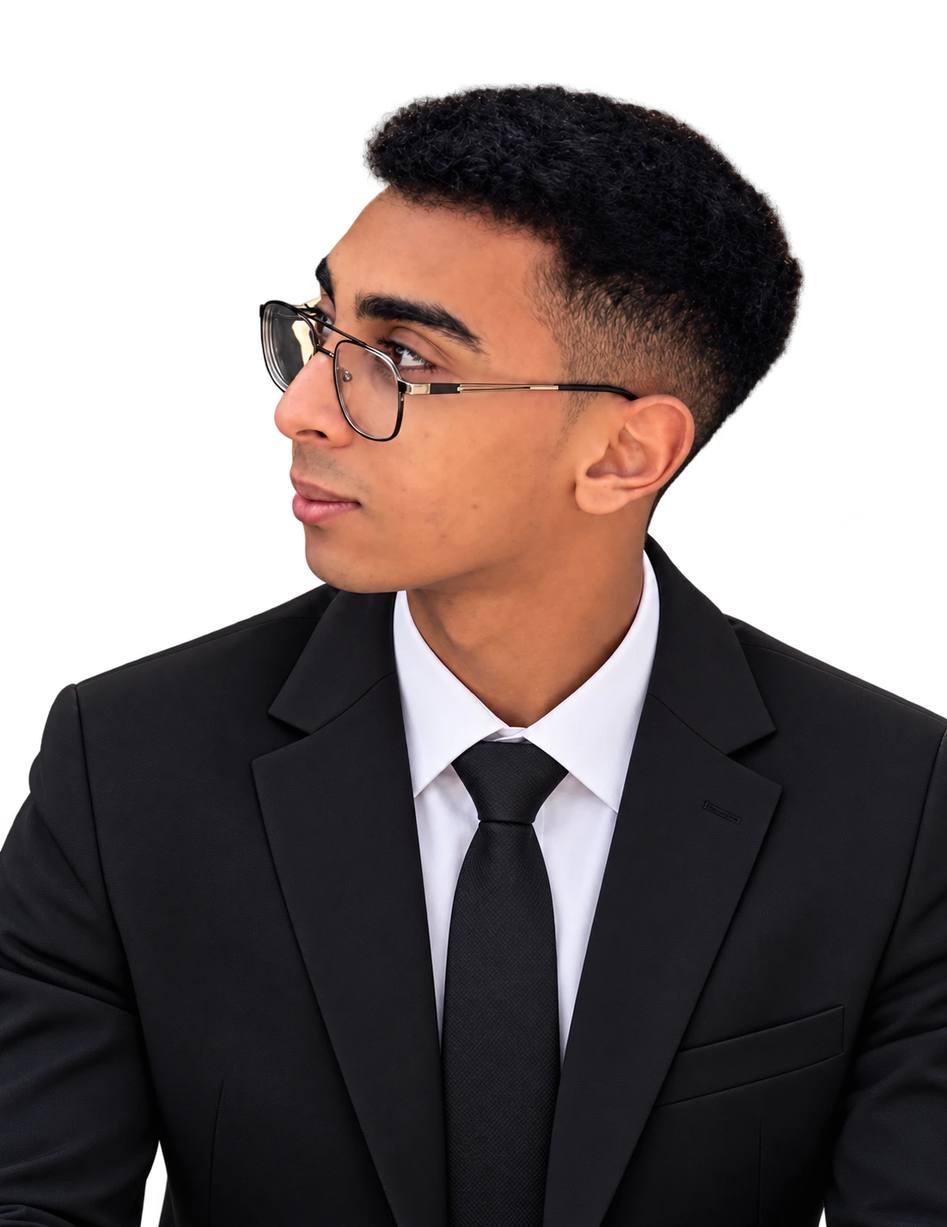
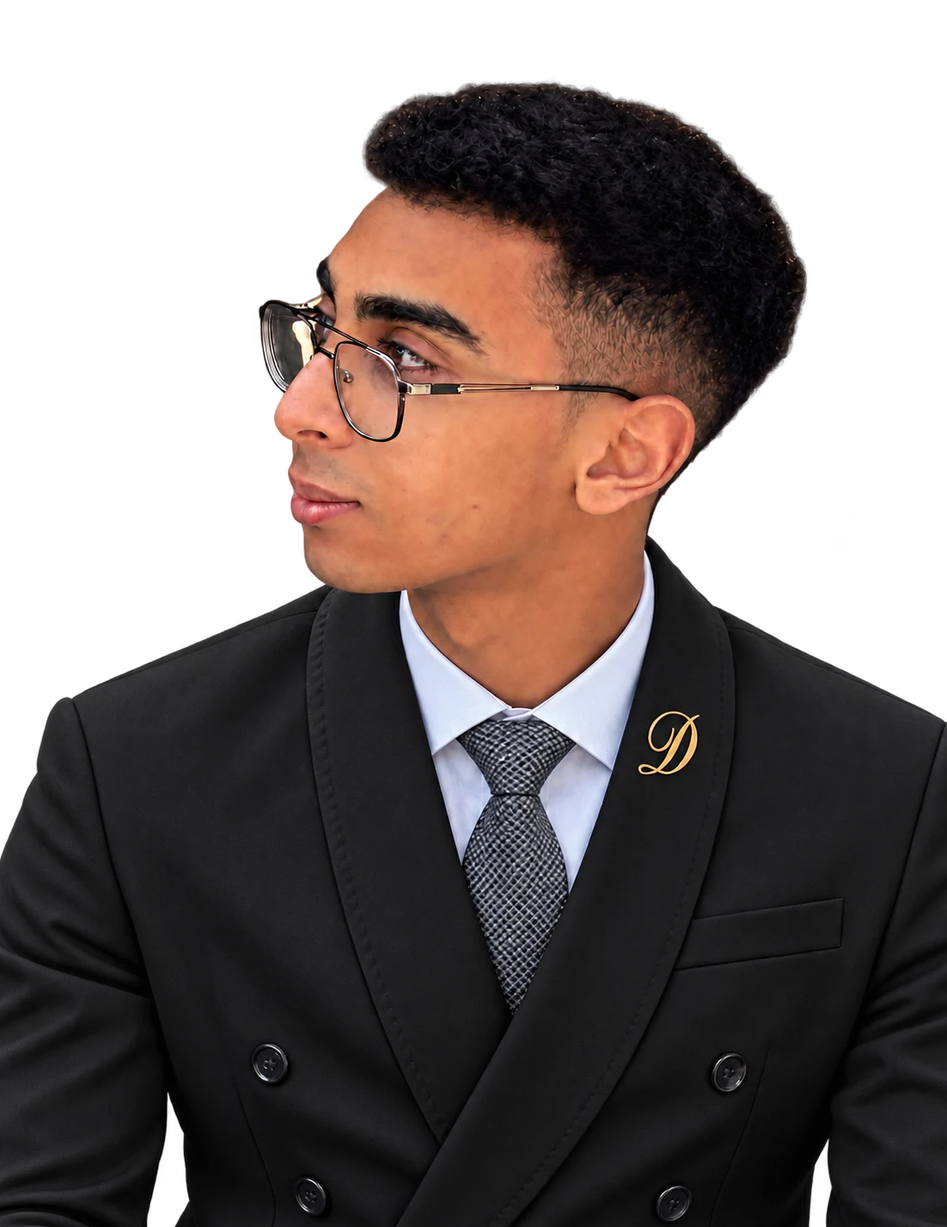
Replace portfolio portrait with supplied black suit photo

diff --git a/index.html b/index.html
@@ -369,7 +369,7 @@ html[lang="ar"] h2 br {display:none}
 
 .cert .certificate-status{font-size:12px;line-height:1.6;color:var(--gold);margin-top:10px}
 .certificate-actions{display:flex;flex-wrap:wrap;gap:10px;margin-top:15px}.certificate-link{font-size:11px;padding:10px 13px;gap:6px}.certificate-dialog{width:min(1200px,96vw);max-height:94dvh;padding:16px;background:#111110;color:var(--light);border:1px solid var(--gold);overflow:auto}.certificate-dialog::backdrop{background:#000d;backdrop-filter:blur(5px)}.certificate-toolbar{display:flex;align-items:center;justify-content:space-between;gap:16px;margin-bottom:14px}.certificate-toolbar h3{font-size:16px;margin:0}.certificate-close{background:#222;color:var(--light);border:1px solid var(--gold);padding:9px 13px;cursor:pointer;flex-shrink:0}.certificate-image{display:block;max-width:100%;height:auto;margin:auto;background:white}.certificate-error{color:var(--light)}body.certificate-open{overflow:hidden}@media(max-width:640px){.certificate-dialog{padding:10px}.certificate-toolbar h3{font-size:13px}.certificate-close{font-size:13px}}
-</style></head><body><nav aria-label="Navigation principale"><a href="#accueil" class="logo" aria-label="Accueil — Daraoui Mohammed">D<span>.</span>M</a><div class="nav-tools"><select class="language-select" id="site-language" aria-label="Choisir la langue"><option value="fr" lang="fr">Français</option><option value="en" lang="en">English</option></select><button class="menu" aria-expanded="false" aria-controls="navigation">Menu ☰</button></div><div class="nav-links" id="navigation"><a href="#accueil">Accueil</a><a href="#apropos">À propos</a><a href="#competences">Compétences & services</a><a href="#formations">Formations</a><a href="#experiences">Expériences</a><a href="#contact">Contact ↗</a></div></nav><header class="hero" id="accueil"><div class="portrait"><img src="assets/portrait.webp" alt="Portrait de Daraoui Mohammed en costume noir" fetchpriority="high" width="1098" height="1433"></div><div class="hero-copy"><div class="kicker rise">Marketing · Création · Pédagogie</div><h1 class="rise">DARAOUI<br> <span>MOHAMMED</span></h1><div class="disciplines rise">Marketing · Communication · Création de contenu · Animateur et encadrant pédagogique</div><p class="hero-quote rise">Des idées créatives, une communication engagée et une pédagogie qui inspire.</p><div class="actions rise"><a class="btn primary" href="#experiences">Découvrir mon parcours <span aria-hidden="true">↗</span></a><a class="btn" href="#contact">Me contacter <span aria-hidden="true">↗</span></a></div></div><div class="hero-foot"><span>Casablanca, Maroc</span><a href="#apropos">Défiler pour découvrir ↓</a></div></header><main><section class="section" id="apropos"><div class="section-head"><div class="label"><b>01</b> À propos</div><h2>Créativité.<br> Engagement. <em>Transmission.</em></h2></div><div class="about-content"><p>Je suis Daraoui Mohammed, diplômé en commerce et marketing de l’ISTA Polo de Casablanca, passionné par la communication, la création de contenu et l’animation pédagogique.</p><p>Responsable du département marketing de l’Association Jeunesse de la Citoyenneté Marocaine (AJCM) – branche Hay Adil, je contribue à valoriser les initiatives associatives et à créer des contenus adaptés à leurs publics.</p><p>Également animateur et encadrant pédagogique, je conçois et anime des activités qui favorisent la créativité, l’autonomie et l’esprit d’équipe chez les enfants et les jeunes.</p><div class="about-sign">Daraoui Mohammed</div></div></section><section class="section" id="competences"><div class="section-head"><div class="label"><b>02</b> Compétences & services</div><h2>Mes domaines<br> d’<em>expertise.</em></h2></div><div class="service-grid"><article class="service"><span>01</span><h3>Communication digitale</h3><p>Création de contenus et gestion de la présence sur les réseaux sociaux pour les marques et les associations.</p><div class="service-mark" aria-hidden="true">↗</div></article><article class="service"><span>02</span><h3>Design graphique</h3><p>Conception de visuels pour les réseaux sociaux, d’affiches et de supports de communication adaptés à l’identité de chaque projet.</p><div class="service-mark" aria-hidden="true">↗</div></article><article class="service"><span>03</span><h3>Photographie</h3><p>Réalisation de portraits et de photographies pour mettre en valeur les personnes, les événements et les projets.</p><div class="service-mark" aria-hidden="true">↗</div></article><article class="service"><span>04</span><h3>Animation & encadrement pédagogique</h3><p>Conception et animation d’activités éducatives, culturelles et ludiques adaptées aux enfants et aux jeunes.</p><div class="service-mark" aria-hidden="true">↗</div></article></div></section><section class="section" id="formations"><div class="section-head"><div class="label"><b>03</b> Formations</div><h2>Apprendre.<br> <em>Évoluer.</em></h2></div><div class="education"><div><h3>Diplôme en gestion des entreprises — Commerce & Marketing</h3><p>ISTA Polo, Casablanca</p></div><span class="year">Obtenu en 2027</span></div><div class="education"><div><h3>Baccalauréat</h3><p>Lycée Jaâfar El Fassi, Casablanca</p></div><span class="year">2024</span></div><details><summary><span class="group-num">01</span>Entrepreneuriat &amp; e-commerce<span class="plus">+</span></summary><div class="certs"><div class="cert"><h4>Formation en entrepreneuriat</h4><p>OFPPT</p><p class="certificate-status">Formation terminée · Attestation en attente</p></div><div class="cert"><h4>Formation en e-commerce</h4><p>OFPPT</p><p class="certificate-status">Formation terminée · Attestation en attente</p></div><div class="cert"><h4>Managing a Business Venture</h4><p>Cisco Networking Academy</p><div class="certificate-actions"><a class="btn certificate-link" href="assets/certificates/3254.webp"><span>Voir le certificat</span> ↗</a></div></div><div class="cert"><h4>Launching a Business Venture</h4><p>Cisco Networking Academy</p><div class="certificate-actions"><a class="btn certificate-link" href="assets/certificates/3255.webp"><span>Voir le certificat</span> ↗</a></div></div><div class="cert"><h4>Discovering Entrepreneurship</h4><p>Cisco Networking Academy</p><div class="certificate-actions"><a class="btn certificate-link" href="assets/certificates/3256.webp"><span>Voir le certificat</span> ↗</a></div></div><div class="cert"><h4>Engaging Stakeholders for Success</h4><p>Cisco Networking Academy</p><div class="certificate-actions"><a class="btn certificate-link" href="assets/certificates/3257.webp"><span>Voir le certificat</span> ↗</a></div></div></div></details><details><summary><span class="group-num">02</span>Marketing digital &amp; création<span class="plus">+</span></summary><div class="certs"><div class="cert"><h4>Google Ads — Publicité sur le Réseau Display</h4><p>Google</p><div class="certificate-actions"><a class="btn certificate-link" href="assets/certificates/3258.webp"><span>Voir le certificat</span> ↗</a></div></div><div class="cert"><h4>Google Analytics</h4><p>Google</p><div class="certificate-actions"><a class="btn certificate-link" href="assets/certificates/3259.webp"><span>Voir le certificat</span> ↗</a></div></div><div class="cert"><h4>Digital Agencies &amp; Freelancers — Double certification</h4><p>ALX &amp; MNTR</p><div class="certificate-actions"><a class="btn certificate-link" href="assets/certificates/3260.webp" data-provider="MNTR"><span>Voir le certificat</span> · MNTR ↗</a><a class="btn certificate-link" href="assets/certificates/3262.webp" data-provider="ALX"><span>Voir le certificat</span> · ALX ↗</a></div></div><div class="cert"><h4>Marketing digital — Cours complet</h4><p>Cursa</p><div class="certificate-actions"><a class="btn certificate-link" href="assets/certificates/3263.webp"><span>Voir le certificat</span> ↗</a></div></div><div class="cert"><h4>Création de contenu avec l’intelligence artificielle</h4><p>Initiative Urbaine · Cooperació Valenciana · Generalitat Valenciana · Syndicalistes sans Frontières</p><div class="certificate-actions"><a class="btn certificate-link" href="assets/certificates/3264.webp"><span>Voir le certificat</span> ↗</a></div></div></div></details><details><summary><span class="group-num">03</span>Technologie &amp; compétences numériques<span class="plus">+</span></summary><div class="certs"><div class="cert"><h4>Introduction to Modern AI</h4><p>Cisco Networking Academy</p><div class="certificate-actions"><a class="btn certificate-link" href="assets/certificates/3265.webp"><span>Voir le certificat</span> ↗</a></div></div><div class="cert"><h4>Introduction to Data Science</h4><p>Cisco Networking Academy</p><div class="certificate-actions"><a class="btn certificate-link" href="assets/certificates/3266.webp"><span>Voir le certificat</span> ↗</a></div></div><div class="cert"><h4>Computer Hardware Basics</h4><p>Cisco Networking Academy</p><div class="certificate-actions"><a class="btn certificate-link" href="assets/certificates/3267.webp"><span>Voir le certificat</span> ↗</a></div></div><div class="cert"><h4>Create Digital Content, Communicate, and Collaborate Online</h4><p>OpenEDG · Cisco Networking Academy</p><div class="certificate-actions"><a class="btn certificate-link" href="assets/certificates/3275.webp"><span>Voir le certificat</span> ↗</a></div></div><div class="cert"><h4>Digital Awareness</h4><p>OpenEDG · Cisco Networking Academy</p><div class="certificate-actions"><a class="btn certificate-link" href="assets/certificates/3276.webp"><span>Voir le certificat</span> ↗</a></div></div><div class="cert"><h4>Linux Unhatched</h4><p>Network Development Group · Cisco Networking Academy</p><div class="certificate-actions"><a class="btn certificate-link" href="assets/certificates/3277.webp"><span>Voir le certificat</span> ↗</a></div></div><div class="cert"><h4>Python Essentials 1</h4><p>Python Institute · Cisco Networking Academy</p><div class="certificate-actions"><a class="btn certificate-link" href="assets/certificates/3278.webp"><span>Voir le certificat</span> ↗</a></div></div><div class="cert"><h4>STEM for Sustainability</h4><p>Boeing · Amideast · INDH</p><div class="certificate-actions"><a class="btn certificate-link" href="assets/certificates/3279.webp"><span>Voir le certificat</span> ↗</a></div></div></div></details><details><summary><span class="group-num">04</span>Pédagogie, animation &amp; vie associative<span class="plus">+</span></summary><div class="certs"><div class="cert"><h4>Les indispensables de l’enseignement</h4><p>Canva Design School</p><div class="certificate-actions"><a class="btn certificate-link" href="assets/certificates/3280.webp"><span>Voir le certificat</span> ↗</a></div></div><div class="cert"><h4>Formation générale des cadres de colonies de vacances — 1er degré</h4><p>Ministère de la Jeunesse, de la Culture et de la Communication · AJCM</p><div class="certificate-actions"><a class="btn certificate-link" href="assets/certificates/3281.webp"><span>Voir le certificat</span> ↗</a></div></div><div class="cert"><h4>Formation générale des cadres de colonies de vacances — 2e degré</h4><p>Ministère de la Jeunesse, de la Culture et de la Communication · AJCM</p><div class="certificate-actions"><a class="btn certificate-link" href="assets/certificates/3282.webp"><span>Voir le certificat</span> ↗</a></div></div><div class="cert"><h4>Renforcement des capacités en gestion associative</h4><p>Ministère de la Jeunesse, de la Culture et de la Communication · AJCM</p><div class="certificate-actions"><a class="btn certificate-link" href="assets/certificates/3283.webp"><span>Voir le certificat</span> ↗</a></div></div><div class="cert"><h4>Programme « Al-Assas » — Animation et gestion associative</h4><p>Ministère de la Jeunesse, de la Culture et de la Communication · AJCM</p><div class="certificate-actions"><a class="btn certificate-link" href="assets/certificates/3284.webp"><span>Voir le certificat</span> ↗</a></div></div></div></details></section><section class="section" id="experiences"><div class="section-head"><div class="label"><b>04</b> Expériences</div><h2>Un parcours<br> en <em>action.</em></h2></div><article class="experience"><span class="when">Depuis 2025</span><div><h3>Responsable du département marketing</h3><p>Association Jeunesse de la Citoyenneté Marocaine — branche Hay Adil</p></div><span class="exp-dot" aria-hidden="true"></span></article><article class="experience"><span class="when">Depuis 2024</span><div><h3>Animateur et encadrant pédagogique</h3><p>Association Jeunesse de la Citoyenneté Marocaine — branche Hay Adil</p></div><span class="exp-dot" aria-hidden="true"></span></article><article class="experience"><span class="when">2024–2025</span><div><h3>Animateur éducatif</h3><p>Centre des Langues et de Communication — Hay Adil</p></div><span class="exp-dot" aria-hidden="true"></span></article><article class="experience"><span class="when">Novembre 2025</span><div><h3>Stage en photographie et design graphique</h3><p>AMBF Business — Agence de marketing digital, Casablanca</p><p class="description">Participation à des shootings photo et création de visuels pour les réseaux sociaux.</p></div><span class="exp-dot" aria-hidden="true"></span></article><article class="experience"><span class="when">2026</span><div><h3>Stage en gestion des produits</h3><p>Taha Ikhwan — Entreprise de peinture</p><p class="description">Participation à la gestion des produits de l’entreprise.</p></div><span class="exp-dot" aria-hidden="true"></span></article></section><section class="contact" id="contact"><span class="label">05 / Contact</span><h2>Et si on <em>échangeait ?</em></h2><p>Un projet, une collaboration ou une opportunité professionnelle ? Échangeons.</p><div class="contact-links"><a class="btn" href="https://www.instagram.com/daraoui.mohammed/" target="_blank" rel="noopener noreferrer"><svg class="icon" viewBox="0 0 24 24" aria-hidden="true"><rect x="3" y="3" width="18" height="18" rx="5"/><circle cx="12" cy="12" r="4"/><circle cx="17.5" cy="6.5" r=".6"/></svg>Instagram <span aria-hidden="true">↗</span></a><a class="btn" href="mailto:daraouima@gmail.com"><svg class="icon" viewBox="0 0 24 24" aria-hidden="true"><rect x="2" y="4" width="20" height="16" rx="2"/><path d="m3 5 9 8 9-8"/></svg>daraouima@gmail.com</a><a class="btn" href="tel:+212609870724"><svg class="icon" viewBox="0 0 24 24" aria-hidden="true"><path d="m6 3 4 5-3 3c2 3 3 4 6 6l3-3 5 4c-1 6-8 4-13-1S1 4 6 3Z"/></svg>0609870724</a></div></section></main><footer><span>© 2026 Daraoui Mohammed. Tous droits réservés.</span><a href="#accueil">Retour en haut ↑</a></footer><script>const menu=document.querySelector('.menu'),links=document.querySelector('.nav-links');menu.addEventListener('click',()=>{const open=menu.getAttribute('aria-expanded')!=='true';menu.setAttribute('aria-expanded',String(open));links.classList.toggle('open',open)});links.querySelectorAll('a').forEach(a=>a.addEventListener('click',()=>{links.classList.remove('open');menu.setAttribute('aria-expanded','false')}));document.addEventListener('keydown',e=>{if(e.key==='Escape'){links.classList.remove('open');menu.setAttribute('aria-expanded','false')}});const observer=new IntersectionObserver(entries=>entries.forEach(e=>{if(e.isIntersecting){links.querySelectorAll('a').forEach(a=>a.classList.toggle('active',a.hash==='#'+e.target.id))}}),{rootMargin:'-15% 0px -65% 0px'});document.querySelectorAll('header[id],section[id]').forEach(s=>observer.observe(s));</script>
+</style></head><body><nav aria-label="Navigation principale"><a href="#accueil" class="logo" aria-label="Accueil — Daraoui Mohammed">D<span>.</span>M</a><div class="nav-tools"><select class="language-select" id="site-language" aria-label="Choisir la langue"><option value="fr" lang="fr">Français</option><option value="en" lang="en">English</option></select><button class="menu" aria-expanded="false" aria-controls="navigation">Menu ☰</button></div><div class="nav-links" id="navigation"><a href="#accueil">Accueil</a><a href="#apropos">À propos</a><a href="#competences">Compétences & services</a><a href="#formations">Formations</a><a href="#experiences">Expériences</a><a href="#contact">Contact ↗</a></div></nav><header class="hero" id="accueil"><div class="portrait"><img src="assets/portrait.webp?v=20261021-2" alt="Portrait de Daraoui Mohammed en costume noir" fetchpriority="high" width="1102" height="1427"></div><div class="hero-copy"><div class="kicker rise">Marketing · Création · Pédagogie</div><h1 class="rise">DARAOUI<br> <span>MOHAMMED</span></h1><div class="disciplines rise">Marketing · Communication · Création de contenu · Animateur et encadrant pédagogique</div><p class="hero-quote rise">Des idées créatives, une communication engagée et une pédagogie qui inspire.</p><div class="actions rise"><a class="btn primary" href="#experiences">Découvrir mon parcours <span aria-hidden="true">↗</span></a><a class="btn" href="#contact">Me contacter <span aria-hidden="true">↗</span></a></div></div><div class="hero-foot"><span>Casablanca, Maroc</span><a href="#apropos">Défiler pour découvrir ↓</a></div></header><main><section class="section" id="apropos"><div class="section-head"><div class="label"><b>01</b> À propos</div><h2>Créativité.<br> Engagement. <em>Transmission.</em></h2></div><div class="about-content"><p>Je suis Daraoui Mohammed, diplômé en commerce et marketing de l’ISTA Polo de Casablanca, passionné par la communication, la création de contenu et l’animation pédagogique.</p><p>Responsable du département marketing de l’Association Jeunesse de la Citoyenneté Marocaine (AJCM) – branche Hay Adil, je contribue à valoriser les initiatives associatives et à créer des contenus adaptés à leurs publics.</p><p>Également animateur et encadrant pédagogique, je conçois et anime des activités qui favorisent la créativité, l’autonomie et l’esprit d’équipe chez les enfants et les jeunes.</p><div class="about-sign">Daraoui Mohammed</div></div></section><section class="section" id="competences"><div class="section-head"><div class="label"><b>02</b> Compétences & services</div><h2>Mes domaines<br> d’<em>expertise.</em></h2></div><div class="service-grid"><article class="service"><span>01</span><h3>Communication digitale</h3><p>Création de contenus et gestion de la présence sur les réseaux sociaux pour les marques et les associations.</p><div class="service-mark" aria-hidden="true">↗</div></article><article class="service"><span>02</span><h3>Design graphique</h3><p>Conception de visuels pour les réseaux sociaux, d’affiches et de supports de communication adaptés à l’identité de chaque projet.</p><div class="service-mark" aria-hidden="true">↗</div></article><article class="service"><span>03</span><h3>Photographie</h3><p>Réalisation de portraits et de photographies pour mettre en valeur les personnes, les événements et les projets.</p><div class="service-mark" aria-hidden="true">↗</div></article><article class="service"><span>04</span><h3>Animation & encadrement pédagogique</h3><p>Conception et animation d’activités éducatives, culturelles et ludiques adaptées aux enfants et aux jeunes.</p><div class="service-mark" aria-hidden="true">↗</div></article></div></section><section class="section" id="formations"><div class="section-head"><div class="label"><b>03</b> Formations</div><h2>Apprendre.<br> <em>Évoluer.</em></h2></div><div class="education"><div><h3>Diplôme en gestion des entreprises — Commerce & Marketing</h3><p>ISTA Polo, Casablanca</p></div><span class="year">Obtenu en 2027</span></div><div class="education"><div><h3>Baccalauréat</h3><p>Lycée Jaâfar El Fassi, Casablanca</p></div><span class="year">2024</span></div><details><summary><span class="group-num">01</span>Entrepreneuriat &amp; e-commerce<span class="plus">+</span></summary><div class="certs"><div class="cert"><h4>Formation en entrepreneuriat</h4><p>OFPPT</p><p class="certificate-status">Formation terminée · Attestation en attente</p></div><div class="cert"><h4>Formation en e-commerce</h4><p>OFPPT</p><p class="certificate-status">Formation terminée · Attestation en attente</p></div><div class="cert"><h4>Managing a Business Venture</h4><p>Cisco Networking Academy</p><div class="certificate-actions"><a class="btn certificate-link" href="assets/certificates/3254.webp"><span>Voir le certificat</span> ↗</a></div></div><div class="cert"><h4>Launching a Business Venture</h4><p>Cisco Networking Academy</p><div class="certificate-actions"><a class="btn certificate-link" href="assets/certificates/3255.webp"><span>Voir le certificat</span> ↗</a></div></div><div class="cert"><h4>Discovering Entrepreneurship</h4><p>Cisco Networking Academy</p><div class="certificate-actions"><a class="btn certificate-link" href="assets/certificates/3256.webp"><span>Voir le certificat</span> ↗</a></div></div><div class="cert"><h4>Engaging Stakeholders for Success</h4><p>Cisco Networking Academy</p><div class="certificate-actions"><a class="btn certificate-link" href="assets/certificates/3257.webp"><span>Voir le certificat</span> ↗</a></div></div></div></details><details><summary><span class="group-num">02</span>Marketing digital &amp; création<span class="plus">+</span></summary><div class="certs"><div class="cert"><h4>Google Ads — Publicité sur le Réseau Display</h4><p>Google</p><div class="certificate-actions"><a class="btn certificate-link" href="assets/certificates/3258.webp"><span>Voir le certificat</span> ↗</a></div></div><div class="cert"><h4>Google Analytics</h4><p>Google</p><div class="certificate-actions"><a class="btn certificate-link" href="assets/certificates/3259.webp"><span>Voir le certificat</span> ↗</a></div></div><div class="cert"><h4>Digital Agencies &amp; Freelancers — Double certification</h4><p>ALX &amp; MNTR</p><div class="certificate-actions"><a class="btn certificate-link" href="assets/certificates/3260.webp" data-provider="MNTR"><span>Voir le certificat</span> · MNTR ↗</a><a class="btn certificate-link" href="assets/certificates/3262.webp" data-provider="ALX"><span>Voir le certificat</span> · ALX ↗</a></div></div><div class="cert"><h4>Marketing digital — Cours complet</h4><p>Cursa</p><div class="certificate-actions"><a class="btn certificate-link" href="assets/certificates/3263.webp"><span>Voir le certificat</span> ↗</a></div></div><div class="cert"><h4>Création de contenu avec l’intelligence artificielle</h4><p>Initiative Urbaine · Cooperació Valenciana · Generalitat Valenciana · Syndicalistes sans Frontières</p><div class="certificate-actions"><a class="btn certificate-link" href="assets/certificates/3264.webp"><span>Voir le certificat</span> ↗</a></div></div></div></details><details><summary><span class="group-num">03</span>Technologie &amp; compétences numériques<span class="plus">+</span></summary><div class="certs"><div class="cert"><h4>Introduction to Modern AI</h4><p>Cisco Networking Academy</p><div class="certificate-actions"><a class="btn certificate-link" href="assets/certificates/3265.webp"><span>Voir le certificat</span> ↗</a></div></div><div class="cert"><h4>Introduction to Data Science</h4><p>Cisco Networking Academy</p><div class="certificate-actions"><a class="btn certificate-link" href="assets/certificates/3266.webp"><span>Voir le certificat</span> ↗</a></div></div><div class="cert"><h4>Computer Hardware Basics</h4><p>Cisco Networking Academy</p><div class="certificate-actions"><a class="btn certificate-link" href="assets/certificates/3267.webp"><span>Voir le certificat</span> ↗</a></div></div><div class="cert"><h4>Create Digital Content, Communicate, and Collaborate Online</h4><p>OpenEDG · Cisco Networking Academy</p><div class="certificate-actions"><a class="btn certificate-link" href="assets/certificates/3275.webp"><span>Voir le certificat</span> ↗</a></div></div><div class="cert"><h4>Digital Awareness</h4><p>OpenEDG · Cisco Networking Academy</p><div class="certificate-actions"><a class="btn certificate-link" href="assets/certificates/3276.webp"><span>Voir le certificat</span> ↗</a></div></div><div class="cert"><h4>Linux Unhatched</h4><p>Network Development Group · Cisco Networking Academy</p><div class="certificate-actions"><a class="btn certificate-link" href="assets/certificates/3277.webp"><span>Voir le certificat</span> ↗</a></div></div><div class="cert"><h4>Python Essentials 1</h4><p>Python Institute · Cisco Networking Academy</p><div class="certificate-actions"><a class="btn certificate-link" href="assets/certificates/3278.webp"><span>Voir le certificat</span> ↗</a></div></div><div class="cert"><h4>STEM for Sustainability</h4><p>Boeing · Amideast · INDH</p><div class="certificate-actions"><a class="btn certificate-link" href="assets/certificates/3279.webp"><span>Voir le certificat</span> ↗</a></div></div></div></details><details><summary><span class="group-num">04</span>Pédagogie, animation &amp; vie associative<span class="plus">+</span></summary><div class="certs"><div class="cert"><h4>Les indispensables de l’enseignement</h4><p>Canva Design School</p><div class="certificate-actions"><a class="btn certificate-link" href="assets/certificates/3280.webp"><span>Voir le certificat</span> ↗</a></div></div><div class="cert"><h4>Formation générale des cadres de colonies de vacances — 1er degré</h4><p>Ministère de la Jeunesse, de la Culture et de la Communication · AJCM</p><div class="certificate-actions"><a class="btn certificate-link" href="assets/certificates/3281.webp"><span>Voir le certificat</span> ↗</a></div></div><div class="cert"><h4>Formation générale des cadres de colonies de vacances — 2e degré</h4><p>Ministère de la Jeunesse, de la Culture et de la Communication · AJCM</p><div class="certificate-actions"><a class="btn certificate-link" href="assets/certificates/3282.webp"><span>Voir le certificat</span> ↗</a></div></div><div class="cert"><h4>Renforcement des capacités en gestion associative</h4><p>Ministère de la Jeunesse, de la Culture et de la Communication · AJCM</p><div class="certificate-actions"><a class="btn certificate-link" href="assets/certificates/3283.webp"><span>Voir le certificat</span> ↗</a></div></div><div class="cert"><h4>Programme « Al-Assas » — Animation et gestion associative</h4><p>Ministère de la Jeunesse, de la Culture et de la Communication · AJCM</p><div class="certificate-actions"><a class="btn certificate-link" href="assets/certificates/3284.webp"><span>Voir le certificat</span> ↗</a></div></div></div></details></section><section class="section" id="experiences"><div class="section-head"><div class="label"><b>04</b> Expériences</div><h2>Un parcours<br> en <em>action.</em></h2></div><article class="experience"><span class="when">Depuis 2025</span><div><h3>Responsable du département marketing</h3><p>Association Jeunesse de la Citoyenneté Marocaine — branche Hay Adil</p></div><span class="exp-dot" aria-hidden="true"></span></article><article class="experience"><span class="when">Depuis 2024</span><div><h3>Animateur et encadrant pédagogique</h3><p>Association Jeunesse de la Citoyenneté Marocaine — branche Hay Adil</p></div><span class="exp-dot" aria-hidden="true"></span></article><article class="experience"><span class="when">2024–2025</span><div><h3>Animateur éducatif</h3><p>Centre des Langues et de Communication — Hay Adil</p></div><span class="exp-dot" aria-hidden="true"></span></article><article class="experience"><span class="when">Novembre 2025</span><div><h3>Stage en photographie et design graphique</h3><p>AMBF Business — Agence de marketing digital, Casablanca</p><p class="description">Participation à des shootings photo et création de visuels pour les réseaux sociaux.</p></div><span class="exp-dot" aria-hidden="true"></span></article><article class="experience"><span class="when">2026</span><div><h3>Stage en gestion des produits</h3><p>Taha Ikhwan — Entreprise de peinture</p><p class="description">Participation à la gestion des produits de l’entreprise.</p></div><span class="exp-dot" aria-hidden="true"></span></article></section><section class="contact" id="contact"><span class="label">05 / Contact</span><h2>Et si on <em>échangeait ?</em></h2><p>Un projet, une collaboration ou une opportunité professionnelle ? Échangeons.</p><div class="contact-links"><a class="btn" href="https://www.instagram.com/daraoui.mohammed/" target="_blank" rel="noopener noreferrer"><svg class="icon" viewBox="0 0 24 24" aria-hidden="true"><rect x="3" y="3" width="18" height="18" rx="5"/><circle cx="12" cy="12" r="4"/><circle cx="17.5" cy="6.5" r=".6"/></svg>Instagram <span aria-hidden="true">↗</span></a><a class="btn" href="mailto:daraouima@gmail.com"><svg class="icon" viewBox="0 0 24 24" aria-hidden="true"><rect x="2" y="4" width="20" height="16" rx="2"/><path d="m3 5 9 8 9-8"/></svg>daraouima@gmail.com</a><a class="btn" href="tel:+212609870724"><svg class="icon" viewBox="0 0 24 24" aria-hidden="true"><path d="m6 3 4 5-3 3c2 3 3 4 6 6l3-3 5 4c-1 6-8 4-13-1S1 4 6 3Z"/></svg>0609870724</a></div></section></main><footer><span>© 2026 Daraoui Mohammed. Tous droits réservés.</span><a href="#accueil">Retour en haut ↑</a></footer><script>const menu=document.querySelector('.menu'),links=document.querySelector('.nav-links');menu.addEventListener('click',()=>{const open=menu.getAttribute('aria-expanded')!=='true';menu.setAttribute('aria-expanded',String(open));links.classList.toggle('open',open)});links.querySelectorAll('a').forEach(a=>a.addEventListener('click',()=>{links.classList.remove('open');menu.setAttribute('aria-expanded','false')}));document.addEventListener('keydown',e=>{if(e.key==='Escape'){links.classList.remove('open');menu.setAttribute('aria-expanded','false')}});const observer=new IntersectionObserver(entries=>entries.forEach(e=>{if(e.isIntersecting){links.querySelectorAll('a').forEach(a=>a.classList.toggle('active',a.hash==='#'+e.target.id))}}),{rootMargin:'-15% 0px -65% 0px'});document.querySelectorAll('header[id],section[id]').forEach(s=>observer.observe(s));</script>
 <script>
 (() => {
   const entries = [["Voir le certificat","View certificate"],["Accueil","Home"],["À propos","About"],["Compétences & services","Skills & services"],["Formations","Education & training"],["Expériences","Experience"],["Contact ↗","Contact ↗"],["Menu ☰","Menu ☰"],["Marketing · Création · Pédagogie","Marketing · Creativity · Education"],["DARAOUI","DARAOUI"],["MOHAMMED","MOHAMMED"],["Marketing · Communication · Création de contenu · Animateur et encadrant pédagogique","Marketing · Communication · Content creation · Educational facilitator & youth mentor"],["Des idées créatives, une communication engagée et une pédagogie qui inspire.","Creative ideas, purposeful communication and inspiring education."],["Découvrir mon parcours","Explore my journey"],["Me contacter","Contact me"],["Casablanca, Maroc","Casablanca, Morocco"],["Défiler pour découvrir ↓","Scroll to discover ↓"],["Créativité.","Creativity."],["Engagement.","Commitment."],["Transmission.","Sharing knowledge."],["Je suis Daraoui Mohammed, diplômé en commerce et marketing de l’ISTA Polo de Casablanca, passionné par la communication, la création de contenu et l’animation pédagogique.","I am Daraoui Mohammed, a commerce and marketing graduate of ISTA Polo in Casablanca, passionate about communication, content creation and educational activities."],["Responsable du département marketing de l’Association Jeunesse de la Citoyenneté Marocaine (AJCM) – branche Hay Adil, je contribue à valoriser les initiatives associatives et à créer des contenus adaptés à leurs publics.","As head of the marketing department at the Association Jeunesse de la Citoyenneté Marocaine (AJCM), Hay Adil branch, I help promote community initiatives and create content tailored to their audiences."],["Également animateur et encadrant pédagogique, je conçois et anime des activités qui favorisent la créativité, l’autonomie et l’esprit d’équipe chez les enfants et les jeunes.","As an educational facilitator and youth mentor, I also design and lead activities that foster creativity, independence and teamwork among children and young people."],["Daraoui Mohammed","Daraoui Mohammed"],["Mes domaines","My areas"],["d’","of "],["expertise.","expertise."],["Communication digitale","Digital communication"],["Création de contenus et gestion de la présence sur les réseaux sociaux pour les marques et les associations.","Content creation and social media presence management for brands and associations."],["Design graphique","Graphic design"],["Conception de visuels pour les réseaux sociaux, d’affiches et de supports de communication adaptés à l’identité de chaque projet.","Design of social media visuals, posters and communication materials tailored to each project's identity."],["Photographie","Photography"],["Réalisation de portraits et de photographies pour mettre en valeur les personnes, les événements et les projets.","Portrait and event photography that highlights people, events and projects."],["Animation & encadrement pédagogique","Educational facilitation & youth mentoring"],["Conception et animation d’activités éducatives, culturelles et ludiques adaptées aux enfants et aux jeunes.","Design and facilitation of educational, cultural and recreational activities for children and young people."],["Apprendre.","Learn."],["Évoluer.","Grow."],["Diplôme en gestion des entreprises — Commerce & Marketing","Diploma in Business Management — Commerce & Marketing"],["ISTA Polo, Casablanca","ISTA Polo, Casablanca"],["Obtenu en 2027","Awarded in 2027"],["Baccalauréat","Baccalaureate"],["Lycée Jaâfar El Fassi, Casablanca","Jaâfar El Fassi High School, Casablanca"],["Entrepreneuriat & e-commerce","Entrepreneurship & e-commerce"],["Formation en entrepreneuriat","Entrepreneurship training"],["Formation en e-commerce","E-commerce training"],["Managing a Business Venture","Managing a Business Venture"],["Launching a Business Venture","Launching a Business Venture"],["Discovering Entrepreneurship","Discovering Entrepreneurship"],["Engaging Stakeholders for Success","Engaging Stakeholders for Success"],["Cisco Networking Academy","Cisco Networking Academy"],["Marketing digital & création","Digital marketing & creativity"],["Google Ads — Publicité sur le Réseau Display","Google Ads — Display Advertising"],["Google Analytics","Google Analytics"],["Digital Agencies & Freelancers — Double certification","Digital Agencies & Freelancers — Dual certification"],["Marketing digital — Cours complet","Digital marketing — Complete course"],["Création de contenu avec l’intelligence artificielle","Content creation with artificial intelligence"],["Initiative Urbaine · Cooperació Valenciana · Generalitat Valenciana · Syndicalistes sans Frontières","Initiative Urbaine · Cooperació Valenciana · Generalitat Valenciana · Syndicalistes sans Frontières"],["Technologie & compétences numériques","Technology & digital skills"],["Introduction to Modern AI","Introduction to Modern AI"],["Introduction to Data Science","Introduction to Data Science"],["Computer Hardware Basics","Computer Hardware Basics"],["Create Digital Content, Communicate, and Collaborate Online","Create Digital Content, Communicate, and Collaborate Online"],["Digital Awareness","Digital Awareness"],["Linux Unhatched","Linux Unhatched"],["Python Essentials 1","Python Essentials 1"],["STEM for Sustainability","STEM for Sustainability"],["Pédagogie, animation & vie associative","Education, facilitation & community work"],["Les indispensables de l’enseignement","Teaching essentials"],["Canva Design School","Canva Design School"],["Ministère de la Jeunesse, de la Culture et de la Communication · AJCM","Ministry of Youth, Culture and Communication · AJCM"],["Renforcement des capacités en gestion associative","Capacity building in association management"],["Programme « Al-Assas » — Animation et gestion associative","Al-Assas programme — Facilitation & association management"],["Un parcours","A journey"],["en","in"],["action.","action."],["Depuis 2025","Since 2025"],["Depuis 2024","Since 2024"],["Responsable du département marketing","Head of Marketing"],["Association Jeunesse de la Citoyenneté Marocaine — branche Hay Adil","Association Jeunesse de la Citoyenneté Marocaine — Hay Adil branch"],["Animateur et encadrant pédagogique","Educational facilitator & youth mentor"],["Animateur éducatif","Educational activity leader"],["Centre des Langues et de Communication — Hay Adil","Language and Communication Centre — Hay Adil"],["Novembre 2025","November 2025"],["Stage en photographie et design graphique","Photography & graphic design internship"],["AMBF Business — Agence de marketing digital, Casablanca","AMBF Business — Digital marketing agency, Casablanca"],["Participation à des shootings photo et création de visuels pour les réseaux sociaux.","Participation in photo shoots and creation of social media visuals."],["Stage en gestion des produits","Product management internship"],["Taha Ikhwan — Entreprise de peinture","Taha Ikhwan — Paint company"],["Participation à la gestion des produits de l’entreprise.","Participation in managing the company's products."],["05 / Contact","05 / Contact"],["Et si on","Shall we"],["échangeait ?","connect?"],["Un projet, une collaboration ou une opportunité professionnelle ? Échangeons.","A project, a collaboration or a career opportunity? Let's talk."],["Instagram","Instagram"],["© 2026 Daraoui Mohammed. Tous droits réservés.","© 2026 Daraoui Mohammed. All rights reserved."],["Retour en haut ↑","Back to top ↑"],["Formation générale des cadres de colonies de vacances — 1er degré","General training for holiday camp leaders — Level 1"],["Formation générale des cadres de colonies de vacances — 2e degré","General training for holiday camp leaders — Level 2"],["Formation terminée · Attestation en attente","Training completed · Certificate pending"]];
